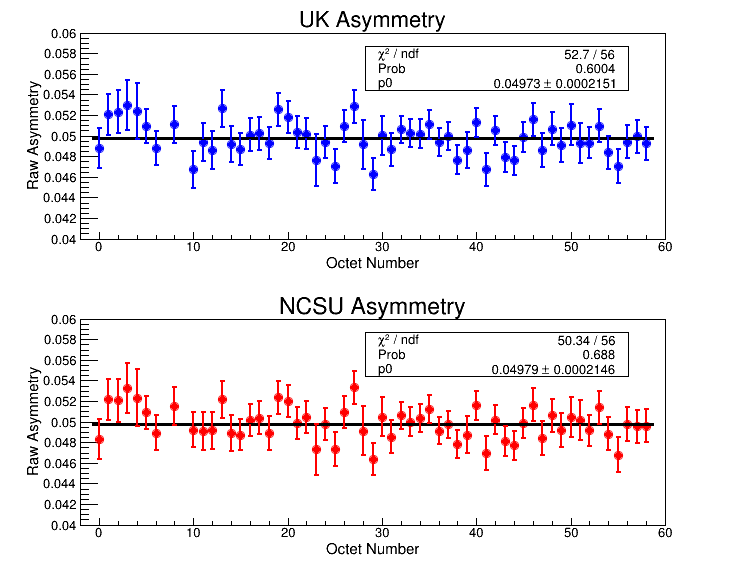
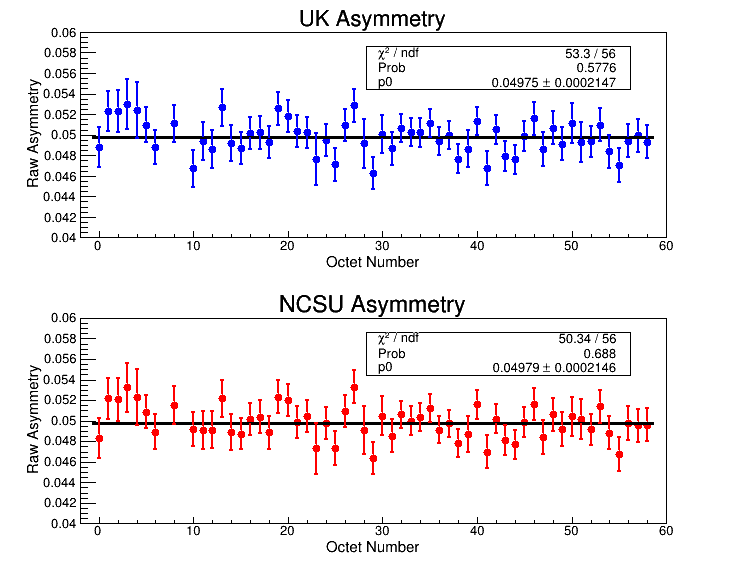
Updated A0 value

Changed region(s): [[0.0308, 0.5061, 0.8941, 0.9825], [0.0308, 0.0, 0.8941, 0.4764]]

diff --git a/Asymmetry/MBAnalyzer.cpp b/Asymmetry/MBAnalyzer.cpp
@@ -141,9 +141,9 @@ int main(int argc, char* argv[])
       }*/
 
    
-    ProcessOctets(octBegin, octEnd, analysisChoice, enBinWidth, UKdata, simulation, UNBLIND);
-    //PlotAsymmetriesByGrouping("Octet",octBegin, octEnd, analysisChoice, Elow, Ehigh, enBinWidth, UKdata, simulation, UNBLIND);
-    //PlotFinalAsymmetries("Octet",octBegin, octEnd, analysisChoice, Elow, Ehigh, enBinWidth, UKdata, simulation, UNBLIND);
+    //ProcessOctets(octBegin, octEnd, analysisChoice, enBinWidth, UKdata, simulation, UNBLIND);
+    PlotAsymmetriesByGrouping("Octet",octBegin, octEnd, analysisChoice, Elow, Ehigh, enBinWidth, UKdata, simulation, UNBLIND);
+    PlotFinalAsymmetries("Octet",octBegin, octEnd, analysisChoice, Elow, Ehigh, enBinWidth, UKdata, simulation, UNBLIND);
     
     //ProcessQuartets(octBegin, octEnd, analysisChoice, enBinWidth, UKdata, simulation, applyAsymm, UNBLIND);
     //PlotAsymmetriesByGrouping("Quartet",octBegin, octEnd, analysisChoice, Elow, Ehigh, enBinWidth, UKdata, simulation, UNBLIND);

diff --git a/systematics/EnergyUncertainty/DecayPhysics.py b/systematics/EnergyUncertainty/DecayPhysics.py
@@ -7,8 +7,8 @@ from math import *
 neutronBetaEp = 782.347				# neutron beta decay endpoint, keV
 m_e = 511.00						# electron mass, keV/c^2
 m_p = 938272.046					# proton mass, keV/c^2
-lmbda = abs(-1.2694) 				# +/-0.0028, PDG 2010 value lambda, Wilkinson sign convention
-A0_PDG = -0.1173					# +/-0.0013, PDG 2010 value
+lmbda = abs(-1.2723) 				# +/-0.0023, PDG 2010 value lambda, Wilkinson sign convention
+A0_PDG = -0.1184					# +/-0.0010, PDG 2016 value
 
 def beta(KE, m = m_e):
 	"""beta = v/c as a function of kinetic energy"""
